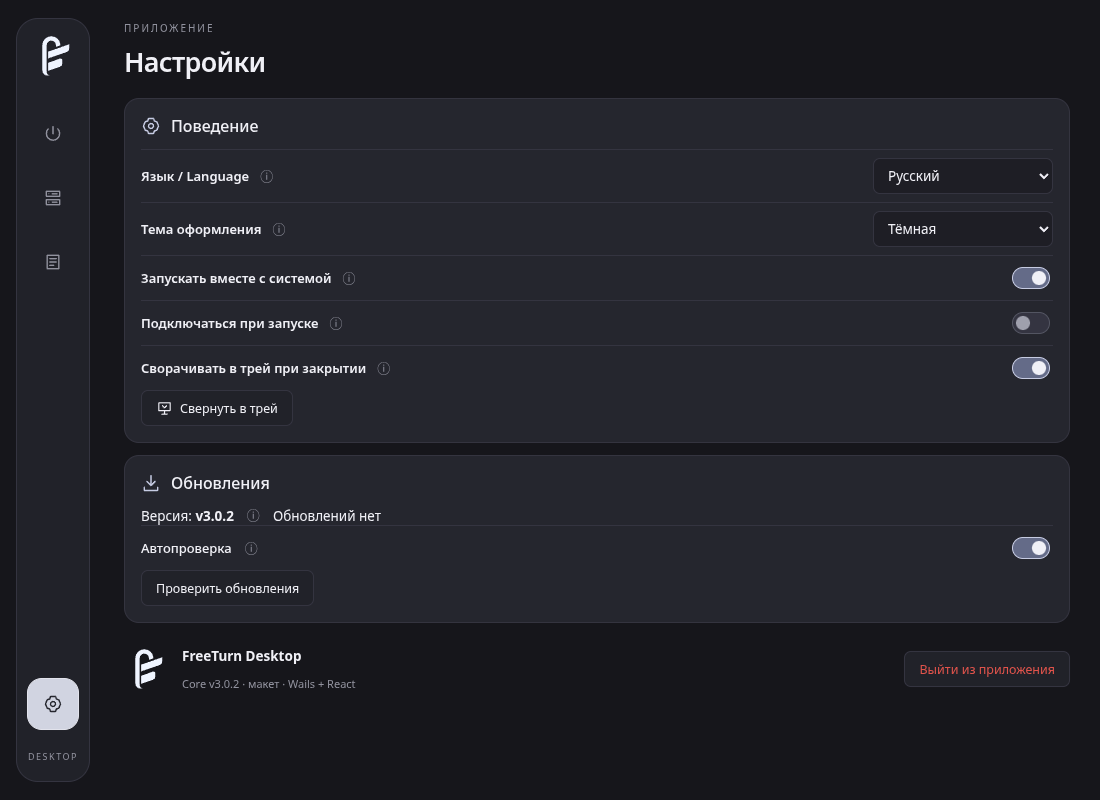
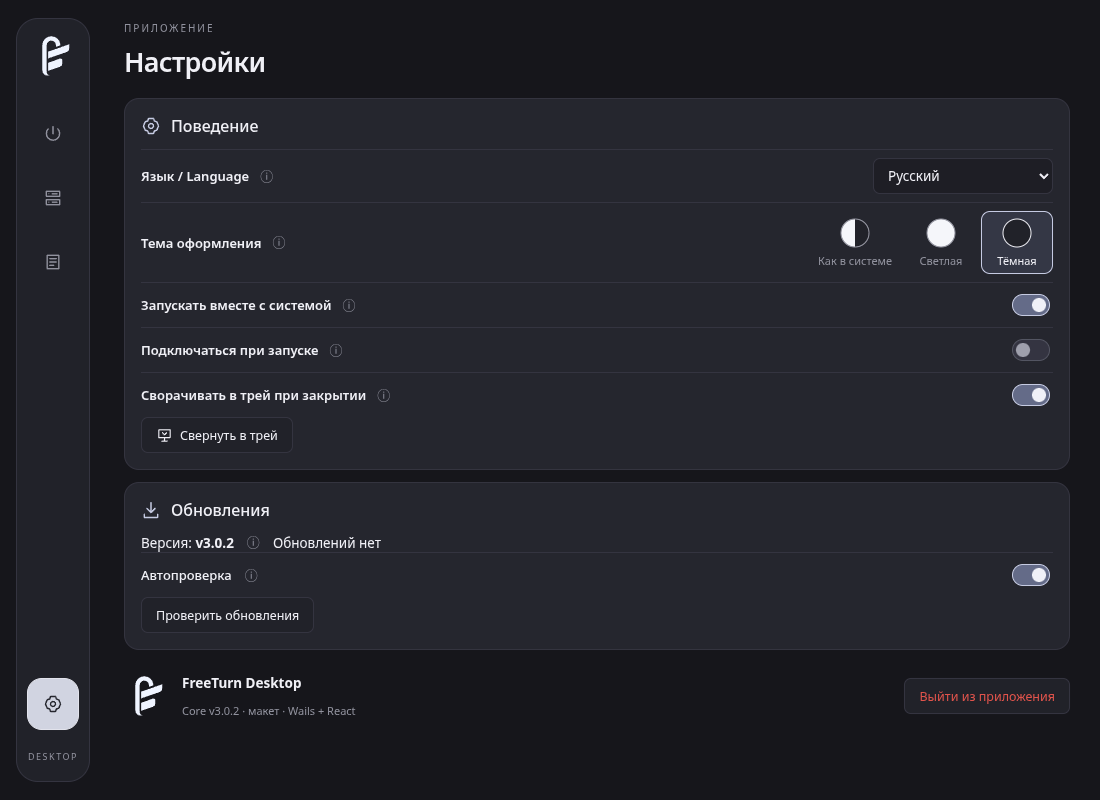
Replace settings theme dropdown with accessible color swatches

diff --git a/desktop/frontend/src/components/DesktopPreferences.tsx b/desktop/frontend/src/components/DesktopPreferences.tsx
@@ -5,7 +5,8 @@ import UpdatePreferences from './UpdatePreferences'
 import {backend} from '../../wailsjs/go/models'
 import {availableLanguages, configureLanguage, tr} from '../language'
 import FieldLabel from './FieldLabel'
-import {configureTheme, normalizeTheme, subscribeTheme, themeSnapshot} from '../theme'
+import {configureTheme, subscribeTheme, themeSnapshot} from '../theme'
+import ThemePicker from './ThemePicker'
 
 function PreferenceSwitch({id, title, hint, checked, disabled, onChange}: {
   id:string; title:string; hint:string; checked:boolean; disabled:boolean; onChange:(value:boolean)=>void
@@ -54,16 +55,11 @@ export default function DesktopPreferences({version, active, servers}: {version:
             {availableLanguages().map(language=><option key={language.code} value={language.code} lang={language.code}>{language.name}</option>)}
           </select>
         </div>
-        <div className="preference-row language-row">
-          <FieldLabel htmlFor="interface-theme" label={tr('Тема оформления', 'Appearance')} hint={tr('Применяется сразу. «Как в системе» автоматически следует светлой или тёмной теме ОС.', 'Applies immediately. System default automatically follows the light or dark OS theme.')} />
-          <select id="interface-theme" value={theme} disabled={busy} onChange={e=>{
-            const value=normalizeTheme(e.target.value)
+        <div className="preference-row theme-row">
+          <FieldLabel htmlFor="interface-theme-system" label={tr('Тема оформления', 'Appearance')} hint={tr('Применяется сразу. «Как в системе» автоматически следует светлой или тёмной теме ОС.', 'Applies immediately. System default automatically follows the light or dark OS theme.')} />
+          <ThemePicker value={theme} disabled={busy} onChange={value=>{
             run(async()=>{await desktop().SetTheme(value);configureTheme(value)})
-          }}>
-            <option value="system">{tr('Как в системе', 'System default')}</option>
-            <option value="light">{tr('Светлая', 'Light')}</option>
-            <option value="dark">{tr('Тёмная', 'Dark')}</option>
-          </select>
+          }} />
         </div>
         <PreferenceSwitch id="start-at-login" title={tr('Запускать вместе с системой', 'Start at login')}
           hint={tr('При входе в систему. Автоподключение настраивается отдельно ниже.', 'When signing in. Automatic connection is configured separately below.')}

diff --git a/desktop/frontend/src/style.css b/desktop/frontend/src/style.css
@@ -1470,7 +1470,7 @@ button:disabled {
 .preference-row p {
   margin: 7px 0 0;
 }
-.preference-row input {
+.preference-row input[type='checkbox'] {
   appearance: none;
   -webkit-appearance: none;
   position: relative;
@@ -1482,7 +1482,7 @@ button:disabled {
   background: var(--switch-track);
   cursor: pointer;
 }
-.preference-row input::after {
+.preference-row input[type='checkbox']::after {
   content: '';
   position: absolute;
   width: 14px;
@@ -1492,15 +1492,15 @@ button:disabled {
   left: 3px;
   top: 3px;
 }
-.preference-row input:checked {
+.preference-row input[type='checkbox']:checked {
   background: var(--switch-on);
   border-color: var(--accent);
 }
-.preference-row input:checked::after {
+.preference-row input[type='checkbox']:checked::after {
   transform: translateX(16px);
   background: var(--switch-on-knob);
 }
-.preference-row input:disabled {
+.preference-row input[type='checkbox']:disabled {
   opacity: 0.45;
   cursor: not-allowed;
 }
@@ -1627,6 +1627,19 @@ button:disabled {
   border-radius: 7px;
   background: var(--bg-input);
   color: var(--text);
+}
+.theme-row { flex-wrap: wrap; }
+.theme-options { display: flex; flex-wrap: wrap; gap: 4px; }
+.theme-option { position: relative; cursor: pointer; }
+.theme-choice { display: flex; align-items: center; flex-direction: column; gap: 4px; min-width: 72px; min-height: 44px; padding: 5px 8px; border: 1px solid transparent; border-radius: 9px; color: var(--text-dim); font-size: 11px; }
+.theme-swatch { display: block; flex-shrink: 0; }
+.theme-option input:checked + .theme-choice { color: var(--text); border-color: var(--accent); background: var(--accent-dim); }
+.theme-option:hover .theme-choice { border-color: var(--accent); }
+.theme-option input:focus-visible + .theme-choice { outline: 2px solid var(--accent); outline-offset: 2px; }
+.theme-option input:disabled + .theme-choice { opacity: 0.5; cursor: wait; }
+@media (forced-colors: active) {
+  .theme-option input:checked + .theme-choice { border-color: Highlight; }
+  .theme-option input:focus-visible + .theme-choice { outline-color: Highlight; }
 }
 .traffic-card .connection-ping { display: flex; align-items: center; gap: 4px; }
 .connection-ping .info-tip-button { font-size: 11px; padding: 0 2px; }

diff --git a/desktop/frontend/src/components/ThemePicker.tsx b/desktop/frontend/src/components/ThemePicker.tsx
@@ -1,0 +1,28 @@
+import {tr} from '../language'
+import type {Theme} from '../theme'
+
+export default function ThemePicker({value, disabled, onChange}: {
+  value: Theme
+  disabled: boolean
+  onChange: (theme: Theme) => void
+}) {
+  const choices: {value: Theme; label: string}[] = [
+    {value:'system', label:tr('Как в системе', 'System default')},
+    {value:'light', label:tr('Светлая', 'Light')},
+    {value:'dark', label:tr('Тёмная', 'Dark')},
+  ]
+  return <div className="theme-options" role="radiogroup" aria-label={tr('Тема оформления', 'Appearance')}>
+    {choices.map(choice => <label className="theme-option" key={choice.value}>
+      <input id={`interface-theme-${choice.value}`} className="sr-only" type="radio" name="interface-theme"
+        value={choice.value} checked={value===choice.value} disabled={disabled} onChange={()=>onChange(choice.value)} />
+      <span className="theme-choice">
+        <svg className="theme-swatch" viewBox="0 0 32 32" width="32" height="32" aria-hidden="true">
+          <circle cx="16" cy="16" r="14" fill={choice.value==='dark'?'#1b1c24':'#f5f6fa'} />
+          {choice.value==='system'&&<path d="M16 2a14 14 0 0 1 0 28Z" fill="#1b1c24" />}
+          <circle cx="16" cy="16" r="14" fill="none" stroke="currentColor" />
+        </svg>
+        <span>{choice.label}</span>
+      </span>
+    </label>)}
+  </div>
+}
